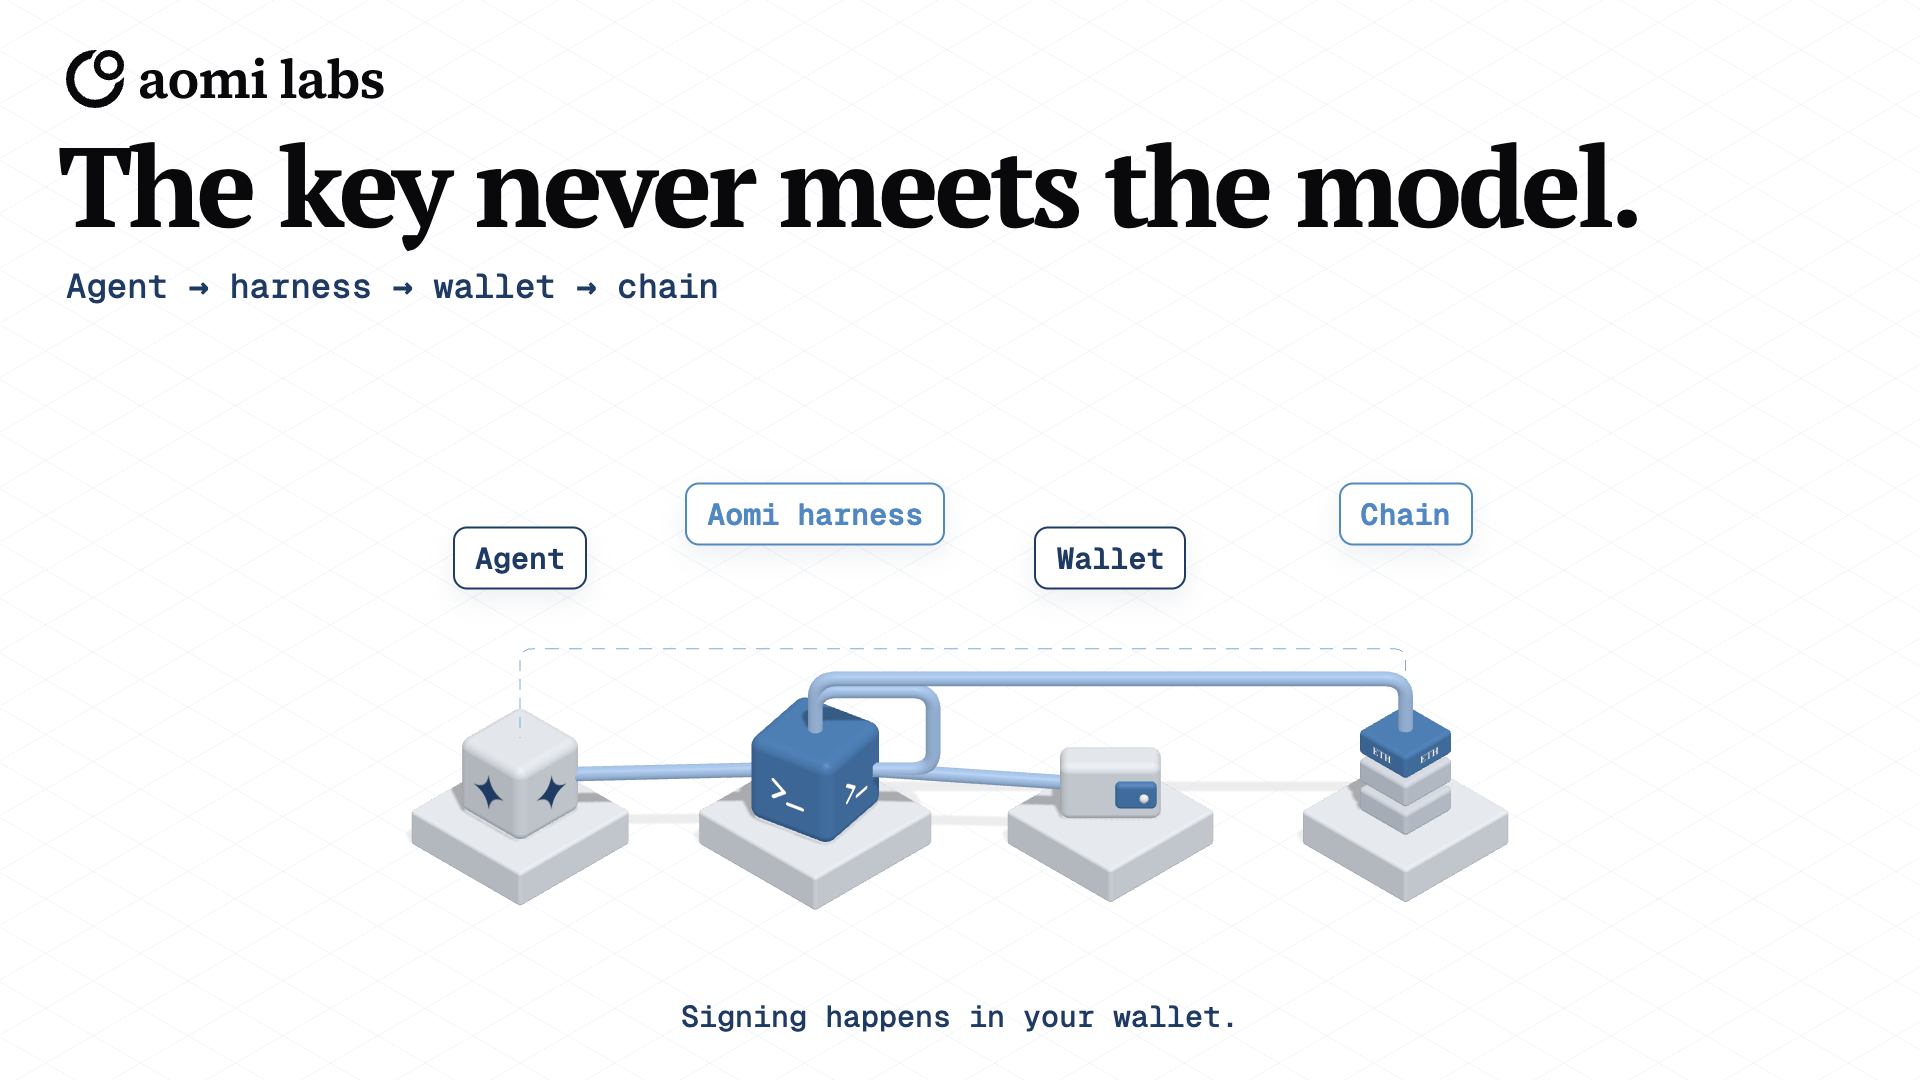
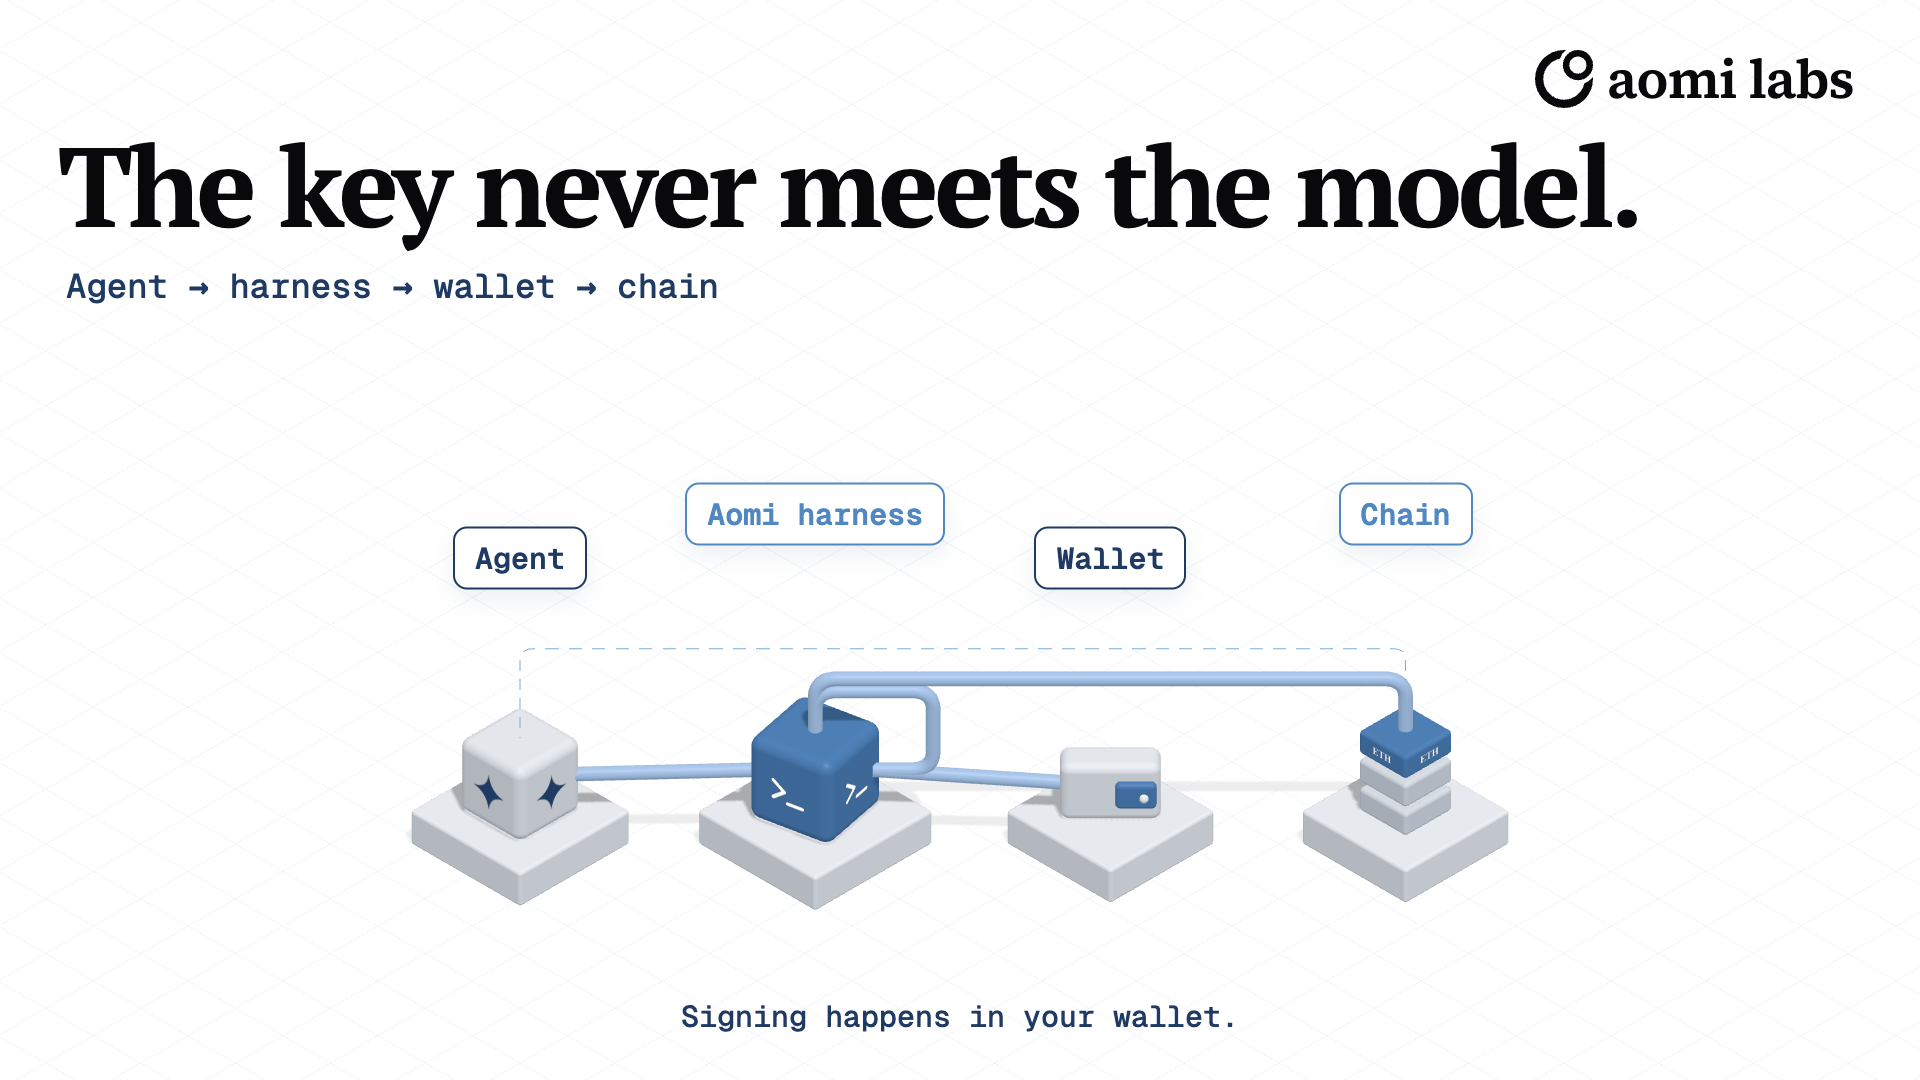
skills(iso-posts): labels never cover objects; lockup top-right; lone people stand on the ground

Changed region(s): [[0.0312, 0.0306, 0.2188, 0.1222], [0.7812, 0.0306, 0.9688, 0.0917]]

diff --git a/skills/iso-posts/assets/iso-template.html b/skills/iso-posts/assets/iso-template.html
@@ -17,7 +17,7 @@
 html,body{margin:0;background:#fff}
 #stage{position:relative;width:1920px;height:1080px;overflow:hidden;background:#fff}
 #gl,#ov{position:absolute;inset:0} #ov{pointer-events:none}
-.logo{position:absolute;left:66px;top:50px;display:flex;align-items:center;gap:14px}
+.logo{position:absolute;right:66px;top:50px;display:flex;align-items:center;gap:14px}
 .logo svg{width:58px;height:58px} .logo span{font:600 54px/1 'Source Serif 4',serif;letter-spacing:-.01em;color:var(--ink)}
 h1{position:absolute;left:58px;top:132px;margin:0;white-space:nowrap;font:700 112px/.95 'PT Serif',serif;letter-spacing:-.035em;color:var(--ink)}
 .sub{position:absolute;left:66px;font:500 34px 'Geist Mono',monospace;color:var(--navy)}
@@ -171,6 +171,7 @@ function copy(h1, sub, foot) { document.querySelector('h1').innerHTML = h1; cons
 
 // ---------- the five posts ----------
 const S = .62; // slab height: things that stand on a slab start at y = S
+const bodies = []; // per spec node, its scene objects; labels are moved off them after layout
 // ---------- posts: one function per post. Place things by screen position with at(sx, sy):
 // sx ∈ about −13…13 (left → right), sy ∈ about −7.5…7.5 (bottom → top). Keep scenes below sy ≈ 0
 // on the left half (the headline lives there) and above sy ≈ −6.5 (the footer lives there).
@@ -246,11 +247,13 @@ function build(spec) {
     }
     if (g.glass) glass(off(c, 0, S, 0), side - .45, 2.9, side - .45);
   });
-  spec.nodes.filter(n => !groups[n.group]).forEach(n => { const w = Math.max(2.2, size(n) + 1.0); slab(at0(n), w, w, ''); });
+  const B0 = n => n.shape === 'person' && !groups[n.group] ? 0 : S; // a lone person stands on the ground, not a plinth
+  spec.nodes.filter(n => !groups[n.group] && B0(n)).forEach(n => { const w = Math.max(2.2, size(n) + 1.0); slab(at0(n), w, w, ''); });
   // nodes
   const top = {}, mid = {}, half = {};
   spec.nodes.forEach((n, i) => {
-    const p = off(at0(n), 0, S, 0), s = size(n), shape = n.shape || 'cube', col = COL[n.color] || C.sky;
+    const before = scene.children.length;
+    const p = off(at0(n), 0, B0(n), 0), s = size(n), shape = n.shape || 'cube', col = COL[n.color] || C.sky;
     if (shape === 'person') { person(p, { s, say: n.say, c: n.color === 'white' || !n.color ? 0xe3ebf5 : col }); top[n.id] = 1.7 * s; mid[n.id] = .65 * s; half[n.id] = .4 * s; }
     else if (shape === 'bubble') { bubble(off(p, 0, .95 * s, 0), { s: 1.05 * s, c: col === C.white ? C.sky : col }); top[n.id] = 1.45 * s; mid[n.id] = .95 * s; half[n.id] = .5 * s; }
     else if (shape === 'wallet') { wallet(p, { s }); top[n.id] = 1.0 * s; mid[n.id] = .5 * s; half[n.id] = .55 * s; }
@@ -258,6 +261,7 @@ function build(spec) {
     else if (shape === 'db') { cylinder(p, { s, c: col === C.white ? C.sky : col }); top[n.id] = 1.1 * s; mid[n.id] = .55 * s; half[n.id] = .62 * s; }
     else if (shape === 'card') { card(p, { s }); top[n.id] = 1.4 * s; mid[n.id] = .72 * s; half[n.id] = .3 * s; }
     else { cube(p, { s, c: col, icon: n.icon, ink: n.color === 'white' ? '#1f3a63' : '#ffffff', yaw: [0, .2, -.16][i % 3] }); top[n.id] = s; mid[n.id] = s / 2; half[n.id] = s / 2 * Math.SQRT2 * .8; }
+    bodies.push(scene.children.slice(before)); // the objects labels must keep clear of
   });
   // wires: one per pair of nodes (a reply or loop-back along the same pair shares the forward wire, rose if either is a failure).
   // Neighbours in a row join face to face; a self-message is a square loop off the right face; everything else rises,
@@ -268,10 +272,10 @@ function build(spec) {
   let lane = 0;
   [...pairs.values()].forEach(e => {
     const A = byId[e.from], B = byId[e.to], a = at0(A), b = at0(B), fail = e.style === 'fail', dashed = e.style === 'dotted', c = fail ? C.rose : dashed ? 0x7facd6 : C.pipe;
-    const up = (q, n, h) => off(q, 0, S + (h ?? top[n.id]), 0), side = (n, dir) => off(at0(n).add(DR.clone().multiplyScalar(dir * (half[n.id] + .02))), 0, S + mid[n.id], 0);
-    if (A === B) { const f = side(A, 1), o = f.clone().add(DR.clone().multiplyScalar(.9)), h = S + top[A.id] + .7;
+    const up = (q, n, h) => off(q, 0, h ?? B0(n) + top[n.id], 0), side = (n, dir) => off(at0(n).add(DR.clone().multiplyScalar(dir * (half[n.id] + .02))), 0, B0(n) + mid[n.id], 0);
+    if (A === B) { const f = side(A, 1), o = f.clone().add(DR.clone().multiplyScalar(.9)), h = B0(A) + top[A.id] + .7;
       wire([f, o, V(o.x, h, o.z), V(a.x, h, a.z), up(a, A)], { c, dashed }); return; }
-    const packed = P[A.id] && P[B.id], face = (n, ax, d) => off(at0(n).add(ax.clone().multiplyScalar(d * (half[n.id] + .02))), 0, S + mid[n.id], 0);
+    const packed = P[A.id] && P[B.id], face = (n, ax, d) => off(at0(n).add(ax.clone().multiplyScalar(d * (half[n.id] + .02))), 0, B0(n) + mid[n.id], 0);
     if (packed && Math.abs(A.row - B.row) + Math.abs(A.col - B.col) === 1 && !fail && !e.back) { // grid neighbours in the world
       const ax = A.row === B.row ? V(0, 0, -1) : V(1, 0, 0), d = A.row === B.row ? Math.sign(B.col - A.col) : Math.sign(B.row - A.row);
       wire([face(A, ax, d), face(B, ax, -d)], { c, dashed }); return; }
@@ -279,19 +283,19 @@ function build(spec) {
       wire([up(a, A), V(a.x, h, a.z), V(b.x, h, a.z), V(b.x, h, b.z), up(b, B)], { c, dashed }); return; }
     if (A.k === B.k && Math.abs(B.r - A.r) === 1) { const d = Math.sign(B.r - A.r); wire([side(A, d), side(B, -d)], { c, dashed });
       if (spec.edgeLabels && e.label) tag(off(a.clone().lerp(b, .5), 0, S + mid[A.id] + .9, 0), e.label, fail ? 'rose' : 'sky'); return; }
-    const h = y0 + .9 + (lane++) * .55 + (fail || e.back ? .4 : 0), H = h - S, pts = [up(a, A), up(a, A, H)];
+    const h = y0 + .9 + (lane++) * .55 + (fail || e.back ? .4 : 0), pts = [up(a, A), up(a, A, h)];
     if (B.k !== A.k) pts.push(pts.at(-1).clone().add(DK.clone().multiplyScalar((B.k - A.k) * GZ)));
-    pts.push(up(b, B, H)); pts.push(up(b, B));
+    pts.push(up(b, B, h)); pts.push(up(b, B));
     wire(pts, { c, dashed });
     if (spec.edgeLabels && e.label) tag(off(a.clone().lerp(b, .5), 0, h + .7, 0), e.label, fail ? 'rose' : 'sky');
   });
   // labels ride above the highest wire, staggered by column
   const yTag = y0 + .9 + lane * .55 + 1.1;
-  if (spec.labels !== false) spec.nodes.forEach(n => { if (n.label) tag(P[n.id] ? off(at0(n), 1.45, S + (n.tagY ?? 0), 1.45) : off(at0(n), 0, yTag + (n.tagY ?? (n.r % 2) * .8), 0), n.label, n.shape === 'person' ? '' : (TAGCLS[n.color] ?? 'sky')); });
+  if (spec.labels !== false) spec.nodes.forEach((n, i) => { if (!n.label) return; tag(P[n.id] ? off(at0(n), 0, B0(n) + top[n.id] + .7 + (n.tagY ?? 0), 0) : off(at0(n), 0, yTag + (n.tagY ?? (n.r % 2) * .8), 0), n.label, n.shape === 'person' ? '' : (TAGCLS[n.color] ?? 'sky')); pins.at(-1)[0].dataset.body = i; });
   fit();
 }
 // zoom and pan the camera so the whole scene (and its tags) sits in the space below the headline
-function fit(area = { x0: -12.4, x1: 12.4, y0: -6.3, y1: 2.6 }) {
+function fit(area = { x0: -12.0, x1: 12.0, y0: -6.3, y1: 2.6 }) {
   cam.zoom = 1; cam.updateProjectionMatrix(); cam.updateMatrixWorld();
   const hw = FH * W / H / 2, hh = FH / 2, box = new THREE.Box3(), v = new THREE.Vector3(); let x0 = 1e9, x1 = -1e9, y0 = 1e9, y1 = -1e9;
   const take = p => { v.copy(p).project(cam); x0 = Math.min(x0, v.x * hw); x1 = Math.max(x1, v.x * hw); y0 = Math.min(y0, v.y * hh); y1 = Math.max(y1, v.y * hh); };
@@ -308,12 +312,26 @@ if (SPECS[N - 1]) build(SPECS[N - 1]); else POSTS[N]();
 renderer.render(scene, cam);
 const tmp = new THREE.Vector3();
 pins.forEach(([e, p]) => { tmp.copy(p).project(cam); e.style.left = ((tmp.x + 1) / 2 * W) + 'px'; e.style.top = ((1 - tmp.y) / 2 * H) + 'px'; });
-// nudge colliding tags apart: the higher one moves up, so labels stay off the objects below them, a few passes until nothing overlaps
-for (let pass = 0; pass < 12; pass++) { let moved = false; const els = pins.map(([e]) => e);
-  els.forEach((a, i) => els.slice(i + 1).forEach(b => { const A = a.getBoundingClientRect(), Bb = b.getBoundingClientRect();
-    if (A.left < Bb.right + 6 && Bb.left < A.right + 6 && A.top < Bb.bottom + 6 && Bb.top < A.bottom + 6) { const hi = A.top > Bb.top ? b : a, d = Math.min(A.bottom, Bb.bottom) - Math.max(A.top, Bb.top) + 10;
-      hi.style.top = (parseFloat(hi.style.top) - d) + 'px'; moved = true; } }));
-  if (!moved) break; }
+// keep labels off the drawing: lowest label first, each takes the nearest spot around its anchor that clears every node body,
+// every placed label, the copy and the canvas edge
+const sx = q => { tmp.copy(q).project(cam); return [(tmp.x + 1) / 2 * W, (1 - tmp.y) / 2 * H]; }, box3 = new THREE.Box3();
+const bodyRects = bodies.map(objs => { box3.makeEmpty(); objs.forEach(o => box3.expandByObject(o)); let l = 1e9, t = 1e9, r = -1e9, b = -1e9;
+  for (const x of [box3.min.x, box3.max.x]) for (const y of [box3.min.y, box3.max.y]) for (const z of [box3.min.z, box3.max.z]) { const [u, v] = sx(V(x, y, z)); l = Math.min(l, u); r = Math.max(r, u); t = Math.min(t, v); b = Math.max(b, v); }
+  return { left: l, top: t, right: r, bottom: b }; });
+const gap = 8, fixedRects = ['h1', '.sub', '.foot', '.logo'].map(q => document.querySelector(q)).filter(e => e && e.textContent.trim()).map(e => e.getBoundingClientRect()), placed = [];
+const clear = r => r.left > 12 && r.top > 12 && r.right < W - 12 && r.bottom < H - 12 &&
+  [...bodyRects, ...fixedRects, ...placed].every(Bb => !(r.left < Bb.right + gap && Bb.left < r.right + gap && r.top < Bb.bottom + gap && Bb.top < r.bottom + gap));
+pins.map(([e]) => e).sort((a, b) => b.getBoundingClientRect().top - a.getBoundingClientRect().top).forEach(e => {
+  const A = e.getBoundingClientRect(), w = A.width + gap, h = A.height + gap, tries = [];
+  for (let j = -6; j <= 3; j++) for (let i = -3; i <= 3; i++) tries.push([i * w * .5, j * h * .75]);
+  tries.sort((p, q) => Math.hypot(p[0] * .7, p[1]) - Math.hypot(q[0] * .7, q[1]));
+  const ok = tries.find(([dx, dy]) => clear({ left: A.left + dx, right: A.right + dx, top: A.top + dy, bottom: A.bottom + dy })) || [0, 0];
+  if (ok[0] || ok[1]) e.dataset.moved = 1; e.style.left = (parseFloat(e.style.left) + ok[0]) + 'px'; e.style.top = (parseFloat(e.style.top) + ok[1]) + 'px'; placed.push(e.getBoundingClientRect()); });
+// a label that had to move far from its node gets a thin leader line down to the node
+const lead = document.createElementNS('http://www.w3.org/2000/svg', 'svg'); lead.setAttribute('width', W); lead.setAttribute('height', H); lead.style.cssText = 'position:absolute;inset:0;pointer-events:none;z-index:0'; ov.prepend(lead);
+pins.forEach(([e]) => { const k = e.dataset.body; if (k === undefined || !e.dataset.moved) return; const r = e.getBoundingClientRect(), b = bodyRects[k], tx = (b.left + b.right) / 2, ty = b.top + 4;
+  const cx = Math.max(r.left + 10, Math.min(r.right - 10, tx)), cy = ty > r.bottom ? r.bottom : r.top; if (Math.hypot(cx - tx, cy - ty) < 70) return;
+  lead.insertAdjacentHTML('beforeend', `<line x1="${cx}" y1="${cy}" x2="${tx}" y2="${ty}" stroke="#7facd6" stroke-width="2.5" stroke-dasharray="2 6" stroke-linecap="round"/><circle cx="${tx}" cy="${ty}" r="5" fill="#7facd6"/>`); });
 window.__READY__ = true;
 </script>
 </body>

diff --git a/skills/iso-posts/SKILL.md b/skills/iso-posts/SKILL.md
@@ -17,7 +17,7 @@ cp skills/iso-posts/assets/iso-template.html deliverables/posts/<slug>/posts.htm
 node skills/iso-posts/scripts/mermaid-to-spec.mjs diagram1.mmd [diagram2.mmd …] > deliverables/posts/<slug>/posts.js
 ```
 
-Each diagram becomes one post (`?n=1`, `?n=2`, …). The converter understands `flowchart`/`graph` (shapes, edge labels, `&`, subgraphs, `class`) and `sequenceDiagram` (participants, actors, messages). It lays nodes out left to right across the banner (rows stack downward, and chains of 8+ fold into a snake), and guesses each node's shape, icon and colour from its words. Not everything is a cube: a user is a little person, an intent or prompt is a speech bubble (a user with intent is a person with a bubble), a wallet is a wallet, a chain or network is a stack of blocks, a db or state store is a cylinder, and a receipt or proof is a card. Everything else is an icon cube (sign or key → key, model or agent → sparkle, revert or fail → rose ✕, Solana → green, …). A Mermaid diagram pasted into chat works too: save it to a `.mmd` file first.
+Each diagram becomes one post (`?n=1`, `?n=2`, …). The converter understands `flowchart`/`graph` (shapes, edge labels, `&`, subgraphs, `class`) and `sequenceDiagram` (participants, actors, messages). It lays nodes out left to right across the banner (rows stack downward, and chains of 8+ fold into a snake), and guesses each node's shape, icon and colour from its words. Not everything is a cube: a user is a little person standing on the ground (no plinth), an intent or prompt is a speech bubble (a user with intent is a person with a bubble), a wallet is a wallet, a chain or network is a stack of blocks, a db or state store is a cylinder, and a receipt or proof is a card. Everything else is an icon cube (sign or key → key, model or agent → sparkle, revert or fail → rose ✕, Solana → green, …). A Mermaid diagram pasted into chat works too: save it to a `.mmd` file first.
 
 ## 2. Edit the spec
 
@@ -47,7 +47,7 @@ This writes `post-1-name1.png`, … and checks each post for:
 - a headline that wraps or runs off the edge
 - tags or receipts overlapping the headline, subline, footer, each other, or the canvas edge
 
-The template already nudges colliding tags apart. If the check still fails, shorten labels, drop a node, or raise one label with `tagY`.
+The template places each label at the nearest spot that clears every object, other labels and the copy, and draws a thin dotted leader when a label had to move away from its node; a label never covers the drawing. If the check still fails, shorten labels, drop a node, or raise one label with `tagY`.
 
 **Then look at every PNG.** The check catches collisions, not meaning. Ask whether a stranger scrolling past gets the point from the headline plus the shape of the scene in two seconds. If not, cut more.
 
@@ -60,7 +60,7 @@ Playwright: the script uses `playwright-core` from the project or next to the sc
 - **Wires are plumbing, not spaghetti.** Straight runs and right angles read as a system; curves and diagonals read as a mess. If a scene still looks tangled, cut edges before anything else.
 - **Nothing small.** On a phone an X image is about 600px wide, a third of the canvas, so labels under about 24px vanish. The template's sizes are already safe; don't shrink them to fit more in.
 - **Colour means something.** Sky is ours, EVM or passed; green is Solana; rose is a failure. A rose cube that isn't a failure confuses the story.
-- **The lockup reads "aomi labs"** (top-left, with the mark). Keep it.
+- **The lockup reads "aomi labs"** (top-right, with the mark; the headline stays left). Keep it.
 - **White background, faint iso grid, cool grey structure.** Don't add dark backgrounds or gradients; the style is light and clean.
 - **Claims must be true.** Numbers on tags ("9 → 5 calls") need a source. If they come from a demo or reconstruction, say so in the post copy, not on the image.
 
